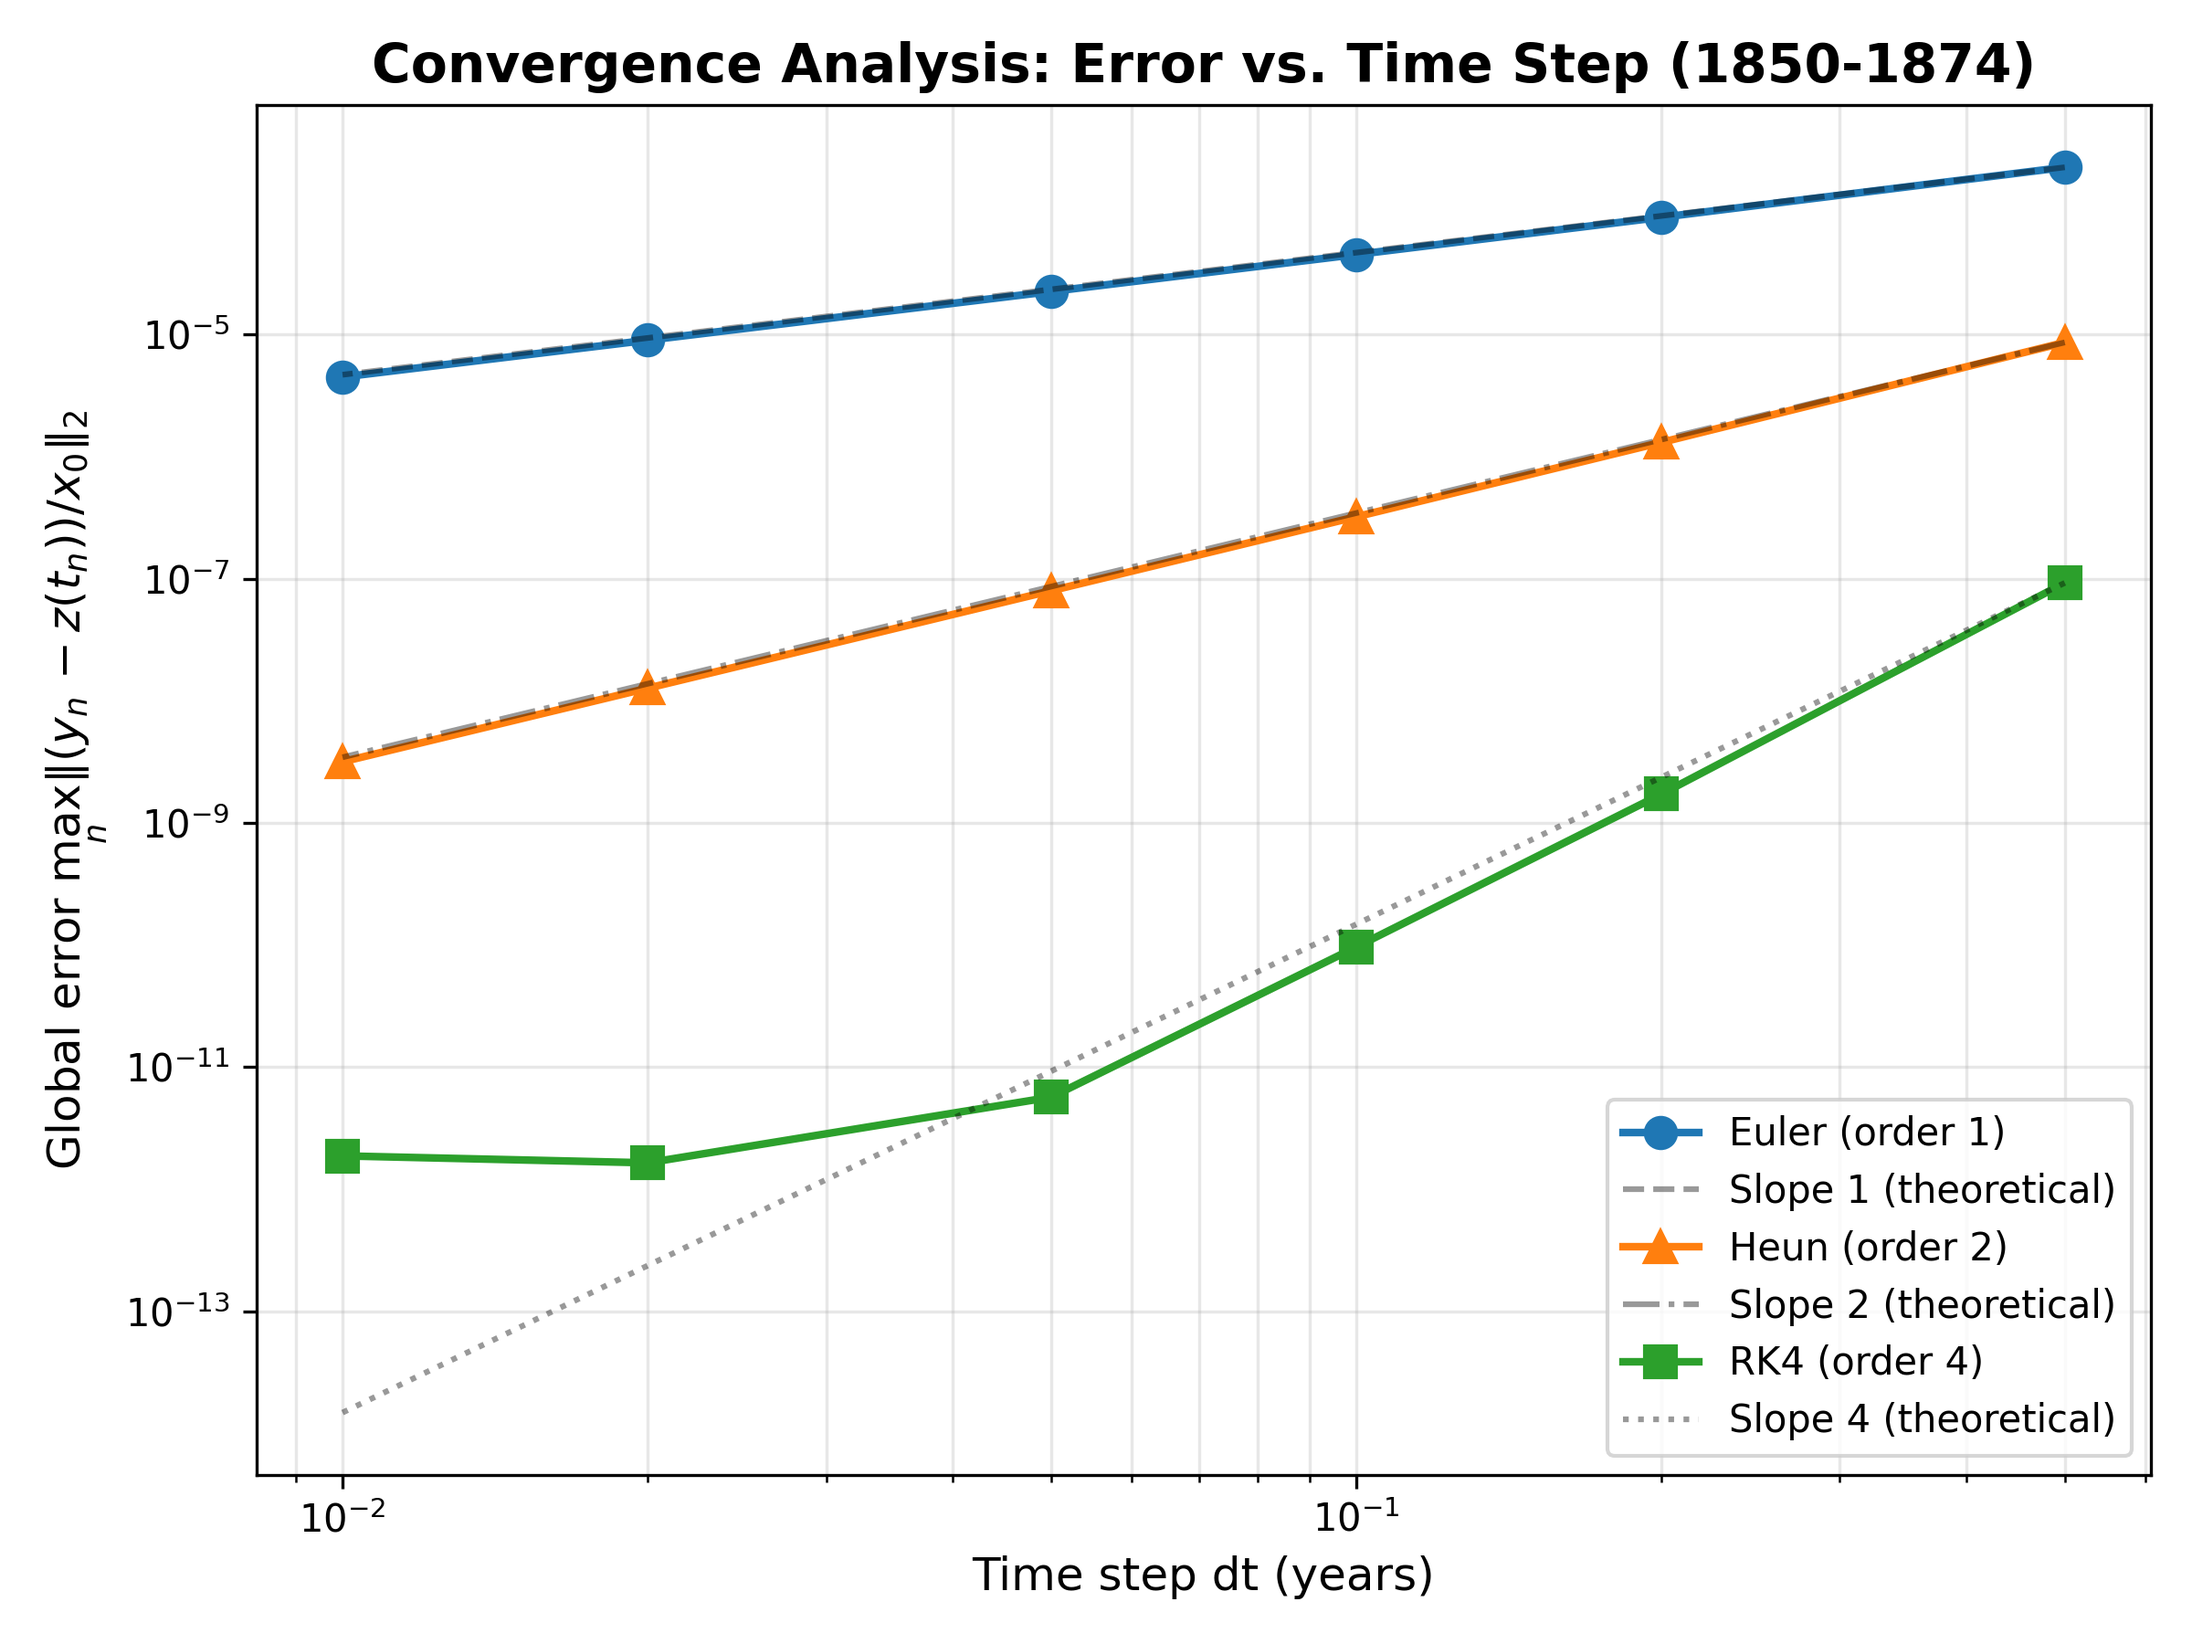
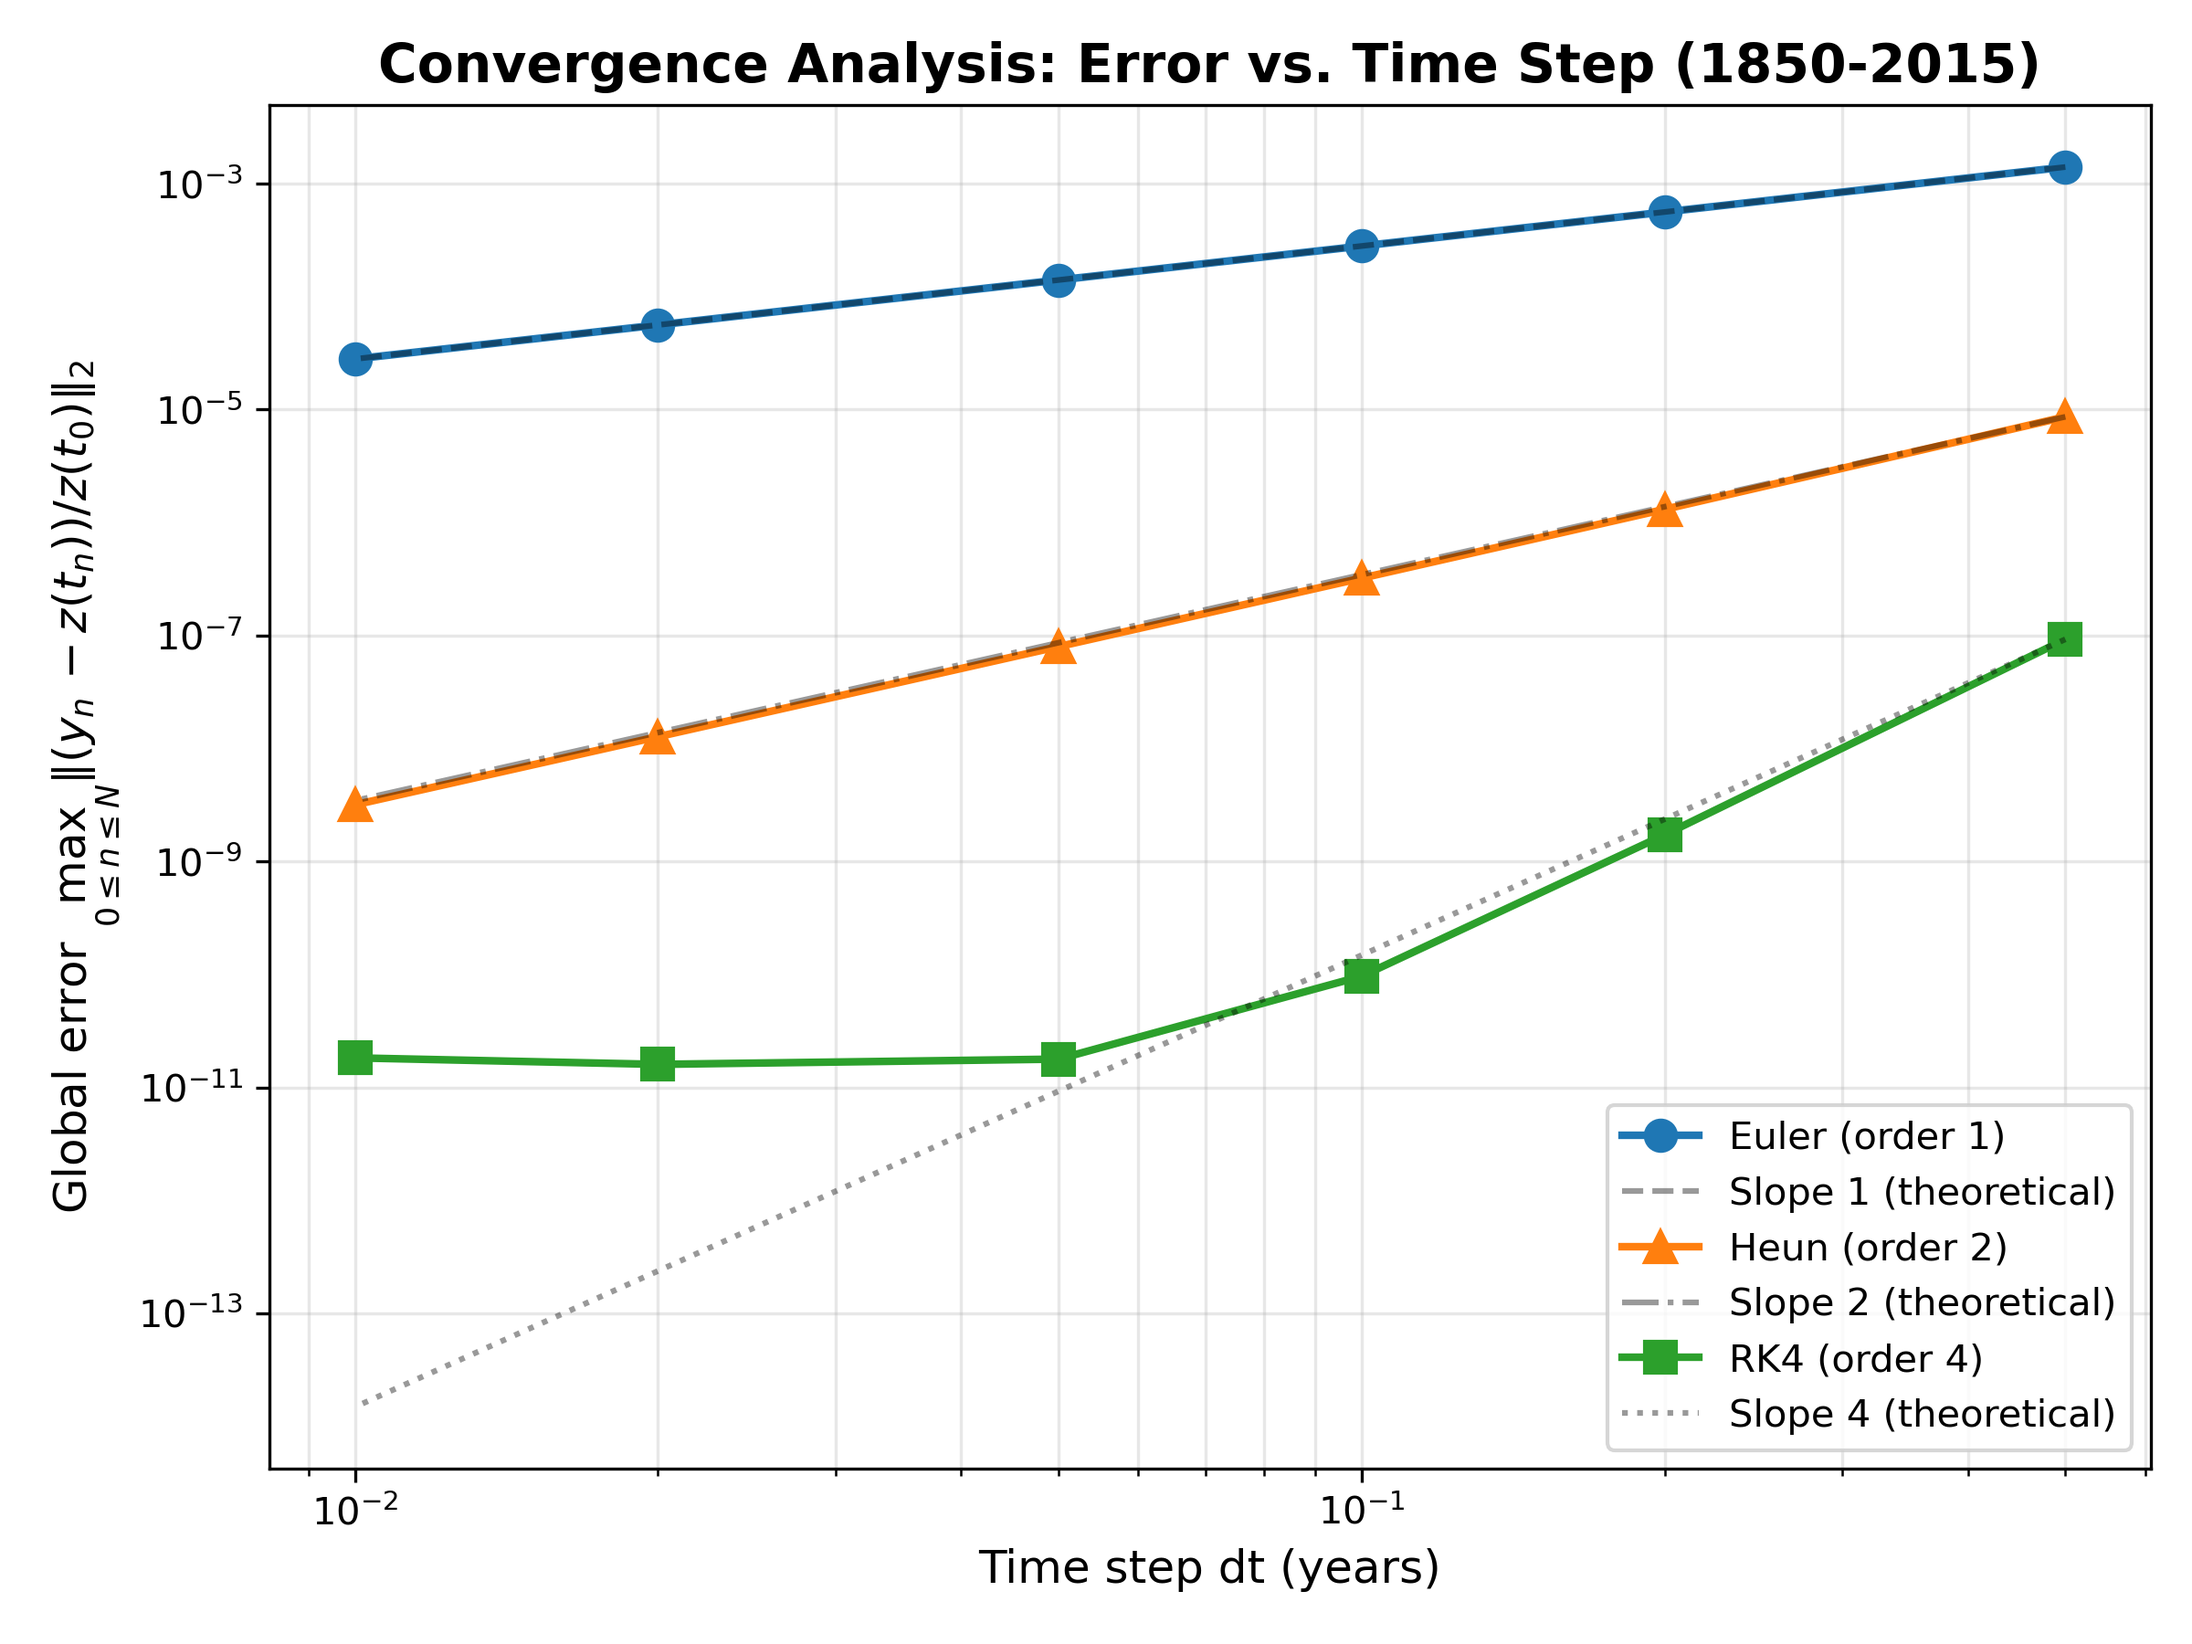
push pr antoine

diff --git a/carbone_clean.py b/carbone_clean.py
@@ -263,7 +263,8 @@ def analyse_convergence():
                    alpha=0.4, linewidth=1.5, label=f'Slope {order} (theoretical)')
 
     plt.xlabel('Time step dt (years)', fontsize=12)
-    plt.ylabel(r'Global error $\max_{0 \leq n \leq N} \left\| (y_n - z(t_n)) / x_0 \right\|_\infty$', fontsize=12)
+    plt.ylabel(r'Global error $\max_{0 \leq n \leq N} \left\| (y_n - z(t_n)) / z(t_0) \right\|_2$', fontsize=12)
+    
     
     plt.title('Convergence Analysis: Error vs. Time Step (1850-2015)', fontsize=14, fontweight='bold')
     plt.legend(fontsize=10, loc='lower right') 
@@ -685,6 +686,6 @@ if __name__ == '__main__':
     # compare_with_historical(times, results)
     # plot_temperature_anomaly()
     # verify_mass_conservation(times, results)
-    #analyse_convergence()
-    # analyse_consistance()
-    analyse_stability()
+    analyse_convergence()
+    #analyse_consistance()
+    #analyse_stability()
